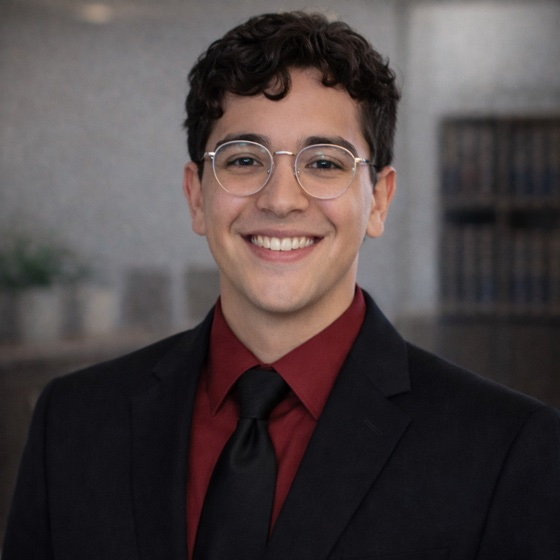
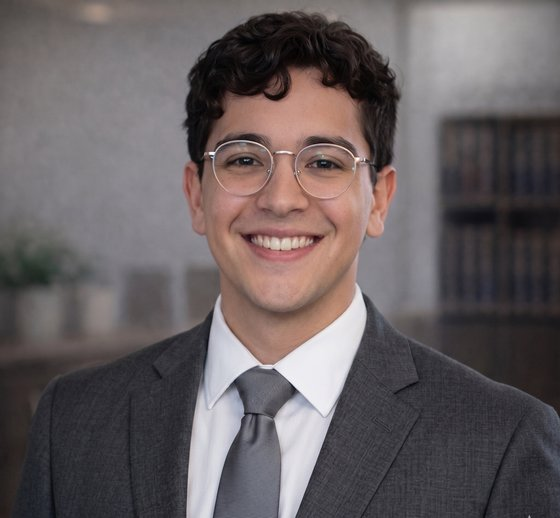
Ajuste de formulario para agregar condiciones de recibir o no mensajes SMS

diff --git a/assets/css/contact.css b/assets/css/contact.css
@@ -217,6 +217,53 @@
     accent-color: var(--accent, #c5a059);
 }
 
+.sms-consent-group {
+    margin: 20px 0 25px;
+}
+
+.sms-consent-checkbox {
+    display: flex;
+    align-items: baseline;
+    gap: 10px;
+    font-size: 0.85rem;
+    color: var(--primary, #0f172a);
+    font-weight: 600;
+    line-height: 1.4;
+}
+
+.sms-consent-checkbox .wpcf7-form-control-wrap {
+    flex-shrink: 0;
+    line-height: 0;
+}
+
+.sms-consent-checkbox .wpcf7-acceptance {
+    display: inline;
+}
+
+.sms-consent-checkbox .wpcf7-list-item {
+    list-style: none;
+    margin: 0;
+}
+
+.sms-consent-checkbox .wpcf7-list-item label {
+    display: inline;
+}
+
+.sms-consent-checkbox input[type="checkbox"] {
+    accent-color: var(--accent, #c5a059);
+    width: 16px;
+    height: 16px;
+    cursor: pointer;
+    vertical-align: middle;
+}
+
+.sms-consent-text {
+    font-size: 0.7rem;
+    color: #64748b;
+    line-height: 1.5;
+    margin: 10px 0 0 0;
+}
+
 .submit-btn {
     width: 100%;
     padding: 20px;

diff --git a/assets/js/chat-config.js b/assets/js/chat-config.js
@@ -69,7 +69,7 @@ window.chatConfig = {
         next: "wc_permission"
     },
     wc_permission: {
-        message: "May we have someone from our Law Firm reach out to you to discuss your case further?",
+        message: "May we have someone from our Law Firm reach out to you to discuss your case further? This may include phone calls, text messages, or emails. Standard message and data rates may apply.",
         type: "buttons",
         key: "permission_contact",
         options: [
@@ -145,7 +145,7 @@ window.chatConfig = {
         next: "pi_permission"
     },
     pi_permission: {
-        message: "May we have someone from our Law Firm reach out to you to discuss your case further?",
+        message: "May we have someone from our Law Firm reach out to you to discuss your case further? This may include phone calls, text messages, or emails. Standard message and data rates may apply.",
         type: "buttons",
         key: "permission_contact",
         options: [

diff --git a/assets/css/home.css b/assets/css/home.css
@@ -560,6 +560,53 @@ footer p {
     height: 120px;
 }
 
+.sms-consent-group {
+    margin: 20px 0 25px;
+}
+
+.sms-consent-checkbox {
+    display: flex;
+    align-items: baseline;
+    gap: 10px;
+    font-size: 0.85rem;
+    color: var(--primary);
+    font-weight: 600;
+    line-height: 1.4;
+}
+
+.sms-consent-checkbox .wpcf7-form-control-wrap {
+    flex-shrink: 0;
+    line-height: 0;
+}
+
+.sms-consent-checkbox .wpcf7-acceptance {
+    display: inline;
+}
+
+.sms-consent-checkbox .wpcf7-list-item {
+    list-style: none;
+    margin: 0;
+}
+
+.sms-consent-checkbox .wpcf7-list-item label {
+    display: inline;
+}
+
+.sms-consent-checkbox input[type="checkbox"] {
+    accent-color: var(--accent, #c5a059);
+    width: 16px;
+    height: 16px;
+    cursor: pointer;
+    vertical-align: middle;
+}
+
+.sms-consent-text {
+    font-size: 0.7rem;
+    color: #64748b;
+    line-height: 1.5;
+    margin: 10px 0 0 0;
+}
+
 .submit-btn {
     width: 100%;
     padding: 18px;

diff --git a/page-meet-our-team.php b/page-meet-our-team.php
@@ -293,15 +293,6 @@ get_header();
                     <h4 class="attorney-lastname">Garcia</h4>
                 </div>
             </div>
-            <div class="attorney-card" data-dept="workers-comp" data-office="bakersfield">
-                <img src="/wp-content/themes/nehoray-law/assets/img/TeresaValencia.jpg" alt="Teresa Valencia">
-                <div class="attorney-info">
-                    <span class="attorney-role">Workers Compensation</span>
-                    <span class="attorney-role-secondary">Case Manager</span>
-                    <h4 class="attorney-name">Teresa</h4>
-                    <h4 class="attorney-lastname">Valencia</h4>
-                </div>
-            </div>
             <div class="attorney-card" data-dept="workers-comp" data-office="headquarters">
                 <img src="/wp-content/themes/nehoray-law/assets/img/KianaPouromid.jpg" alt="Kiana Pouromid">
                 <div class="attorney-info">
@@ -416,6 +407,16 @@ get_header();
                 </div>
             </div>
 
+            <div class="attorney-card" data-dept="workers-comp" data-office="headquarters">
+                <img src="/wp-content/themes/nehoray-law/assets/img/NataliePadilla.jpg" alt="Natalie Padilla">
+                <div class="attorney-info">
+                    <span class="attorney-role">Workers Compensation</span>
+                    <span class="attorney-role-secondary">Hearing Rep</span>
+                    <h4 class="attorney-name">Natalie</h4>
+                    <h4 class="attorney-lastname">Padilla</h4>
+                </div>
+            </div>
+
             <!-- INTAKE DEPARTMENT -->
             <div class="attorney-card" data-dept="intake" data-office="headquarters">
                 <img src="/wp-content/themes/nehoray-law/assets/img/KambizBanayan.jpg" alt="Kambiz Banayan">
@@ -450,14 +451,6 @@ get_header();
                 </div>
             </div>
             <div class="attorney-card" data-dept="intake" data-office="headquarters">
-                <img src="/wp-content/themes/nehoray-law/assets/img/JuanRuiz.jpg" alt="Juan Ruiz">
-                <div class="attorney-info">
-                    <span class="attorney-role">Intake Support</span>
-                    <h4 class="attorney-name">Juan</h4>
-                    <h4 class="attorney-lastname">Ruiz</h4>
-                </div>
-            </div>
-            <div class="attorney-card" data-dept="intake" data-office="headquarters">
                 <img src="/wp-content/themes/nehoray-law/assets/img/KayeHinolan.jpg" alt="Kaye Hinolan">
                 <div class="attorney-info">
                     <span class="attorney-role">Intake Support</span>
@@ -479,14 +472,6 @@ get_header();
                     <span class="attorney-role">Intake Support</span>
                     <h4 class="attorney-name">Alexander</h4>
                     <h4 class="attorney-lastname">Sereno</h4>
-                </div>
-            </div>
-            <div class="attorney-card" data-dept="intake" data-office="headquarters">
-                <img src="/wp-content/themes/nehoray-law/assets/img/AbeMerhi.jpg" alt="Abe Merhi">
-                <div class="attorney-info">
-                    <span class="attorney-role">Intake Support</span>
-                    <h4 class="attorney-name">Abe</h4>
-                    <h4 class="attorney-lastname">Merhi</h4>
                 </div>
             </div>
             <div class="attorney-card" data-dept="intake" data-office="headquarters">
@@ -539,6 +524,14 @@ get_header();
                     <h4 class="attorney-lastname">Marcelo</h4>
                 </div>
             </div>
+            <div class="attorney-card" data-dept="claims" data-office="headquarters">
+                <img src="/wp-content/themes/nehoray-law/assets/img/JulesCasibang.jpg" alt="Jules Casibang">
+                <div class="attorney-info">
+                    <span class="attorney-role">Legal Assistant</span>
+                    <h4 class="attorney-name">Jules</h4>
+                    <h4 class="attorney-lastname">Casibang</h4>
+                </div>
+            </div>
 
             <!-- MEDICAL DEPARTMENT -->
             <div class="attorney-card" data-dept="medical" data-office="headquarters">
@@ -574,15 +567,15 @@ get_header();
                 </div>
             </div>
             <div class="attorney-card" data-dept="medical" data-office="headquarters">
-                <img src="/wp-content/themes/nehoray-law/assets/img/JulesCasibang.jpg" alt="Jules Casibang">
+                <img src="/wp-content/themes/nehoray-law/assets/img/JuanRuiz.jpg" alt="Juan Ruiz">
                 <div class="attorney-info">
                     <span class="attorney-role">Medical Team</span>
-                    <h4 class="attorney-name">Jules</h4>
-                    <h4 class="attorney-lastname">Casibang</h4>
+                    <h4 class="attorney-name">Juan</h4>
+                    <h4 class="attorney-lastname">Ruiz</h4>
                 </div>
             </div>
-            <div class="attorney-card" data-dept="claims" data-office="headquarters">
-                <img src="/wp-content/themes/nehoray-law/assets/img/placeholder-silhouette.png" alt="Francisco Bonfanti">
+            <div class="attorney-card" data-dept="medical" data-office="headquarters">
+                <img src="/wp-content/themes/nehoray-law/assets/img/FranciscoBonfanti.jpg" alt="Francisco Bonfanti">
                 <div class="attorney-info">
                     <span class="attorney-role">Medical Team</span>
                     <h4 class="attorney-name">Francisco</h4>
@@ -641,6 +634,14 @@ get_header();
                     <h4 class="attorney-lastname">Malijan</h4>
                 </div>
             </div>
+            <div class="attorney-card" data-dept="marketing" data-office="headquarters">
+                <img src="/wp-content/themes/nehoray-law/assets/img/FernandoMandoloni.jpg" alt="Fernando Mandoloni">
+                <div class="attorney-info">
+                    <span class="attorney-role">Web Design</span>
+                    <h4 class="attorney-name">Fernando</h4>
+                    <h4 class="attorney-lastname">Mandoloni</h4>
+                </div>
+            </div>
 
             <!-- H.R. DEPARTMENT -->
             <div class="attorney-card" data-dept="hr" data-office="headquarters">
@@ -657,6 +658,15 @@ get_header();
                     <span class="attorney-role">Sr HR Partner</span>
                     <h4 class="attorney-name">Alana</h4>
                     <h4 class="attorney-lastname">Pederson</h4>
+                </div>
+            </div>
+
+            <div class="attorney-card" data-dept="hr" data-office="headquarters">
+                <img src="/wp-content/themes/nehoray-law/assets/img/ChazWilliams.jpg" alt="Chaz Williams">
+                <div class="attorney-info">
+                    <span class="attorney-role">HR Generalist / Office Manager</span>
+                    <h4 class="attorney-name">Chaz</h4>
+                    <h4 class="attorney-lastname">Williams</h4>
                 </div>
             </div>
 
@@ -714,7 +724,7 @@ get_header();
             <div class="attorney-card" data-dept="operations" data-office="headquarters">
                 <img src="/wp-content/themes/nehoray-law/assets/img/SteveAdler.jpg" alt="Steve Adler">
                 <div class="attorney-info">
-                    <span class="attorney-role">Director of Operations</span>
+                    <span class="attorney-role">Chief Operating Officer</span>
                     <h4 class="attorney-name">Steve</h4>
                     <h4 class="attorney-lastname">Adler</h4>
                 </div>

diff --git a/functions.php b/functions.php
@@ -9,7 +9,7 @@
 
 if ( ! defined( '_S_VERSION' ) ) {
 	// Replace the version number of the theme on each release.
-	define( '_S_VERSION', '1.0.6' );
+	define( '_S_VERSION', '1.0.9' );
 }
 
 /**
@@ -448,6 +448,10 @@ add_filter( 'wpcf7_posted_data', function( $posted_data ) {
 
     return $posted_data;
 } );
+
+add_filter( 'wpcf7_mail_tag_replaced_sms-consent', function( $replaced, $submitted, $html ) {
+    return $submitted ? 'Accepted' : 'Rejected';
+}, 10, 3 );
 
 /**
  * --- CONFIGURACIÓN CHATBOT ---
